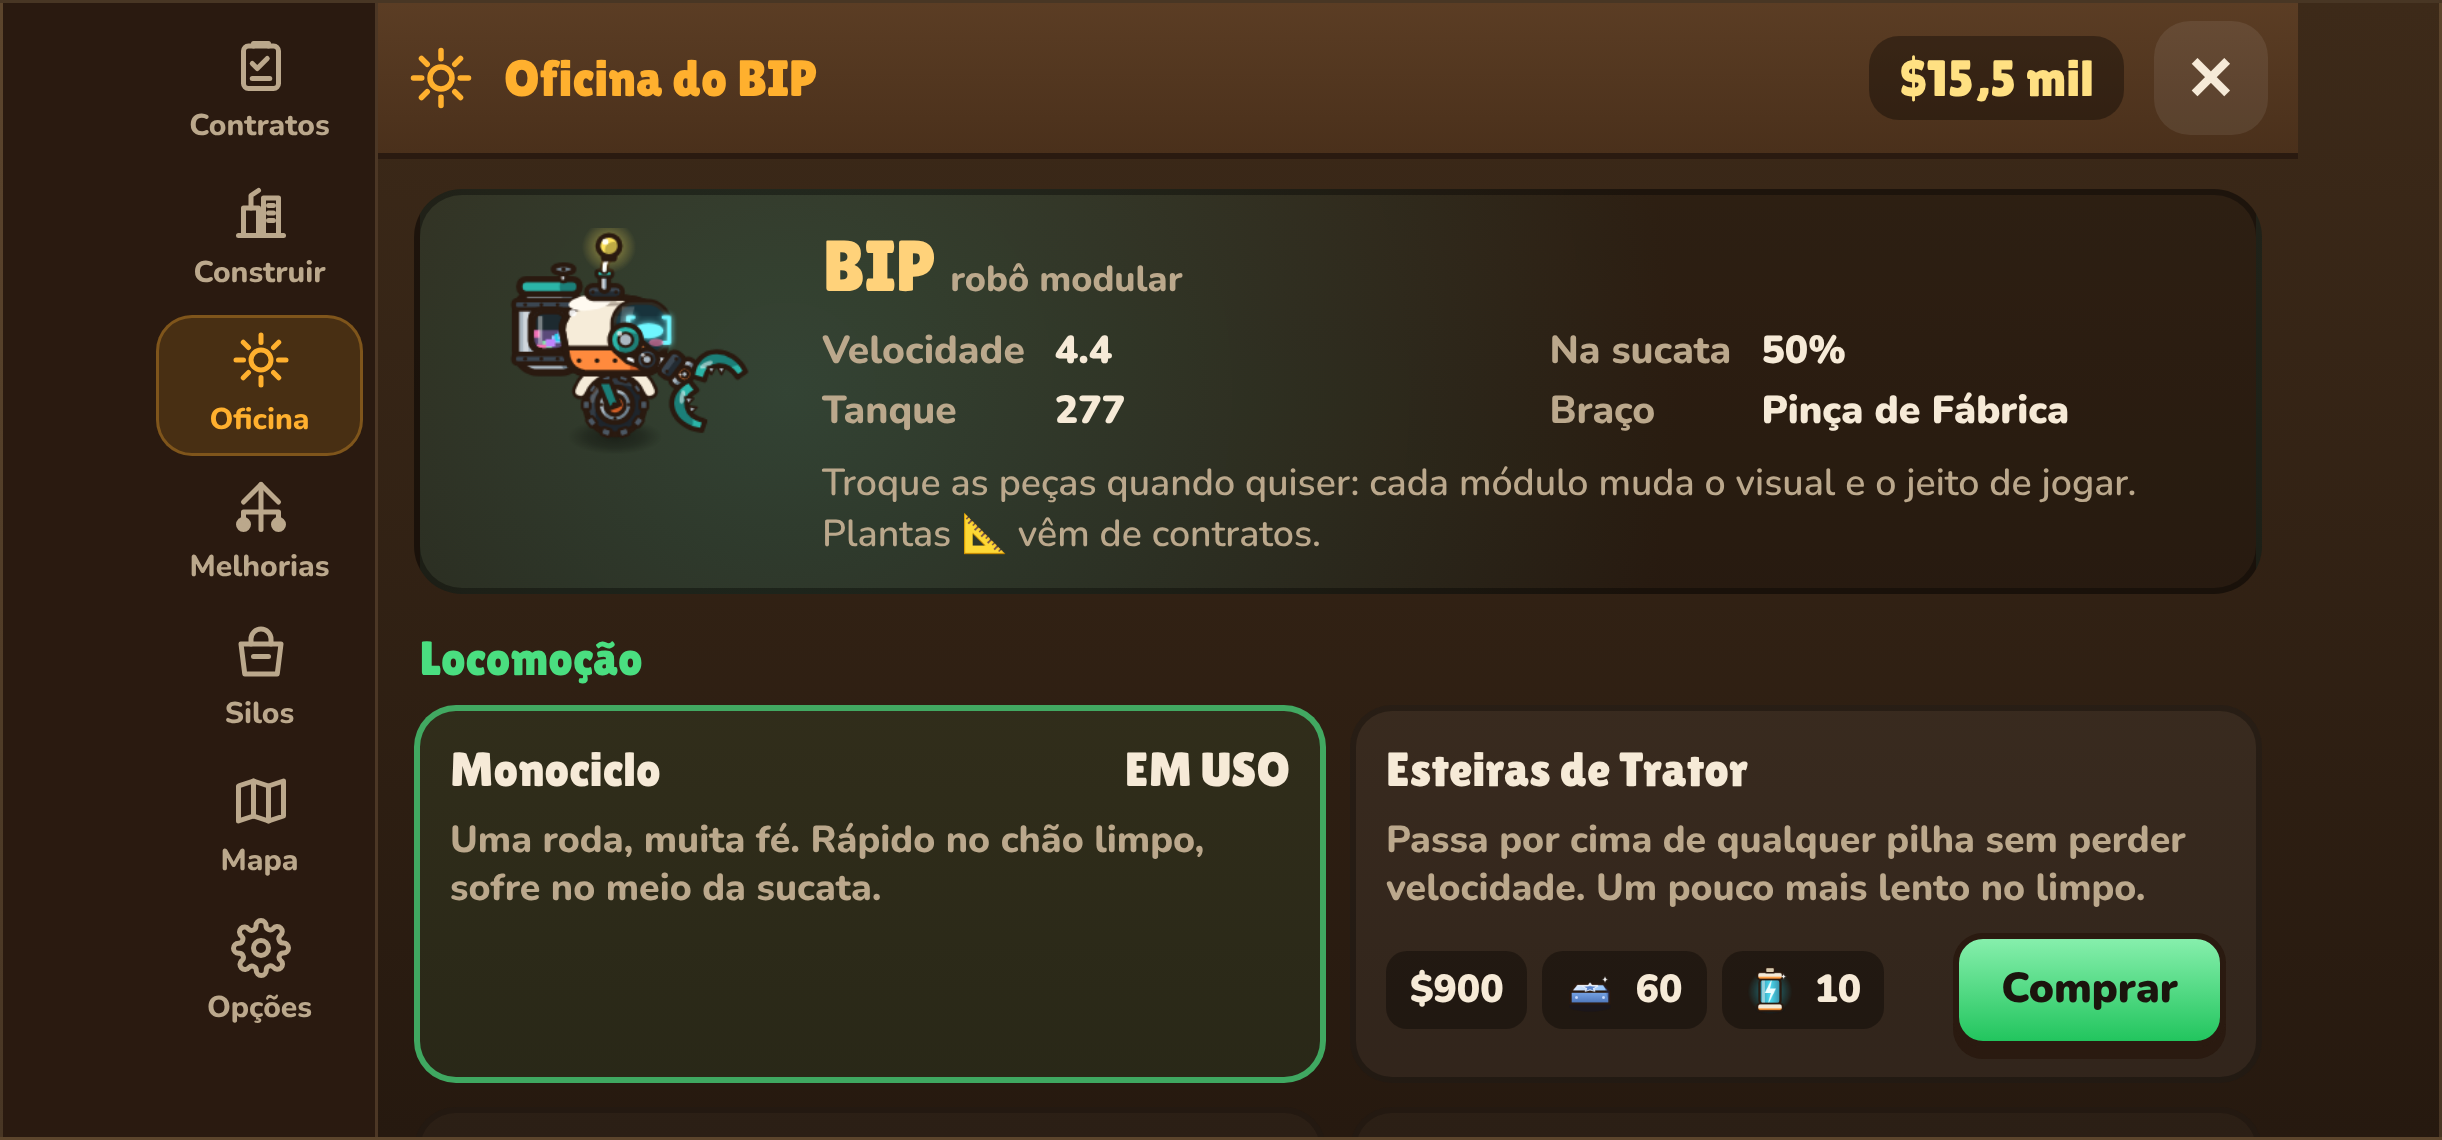
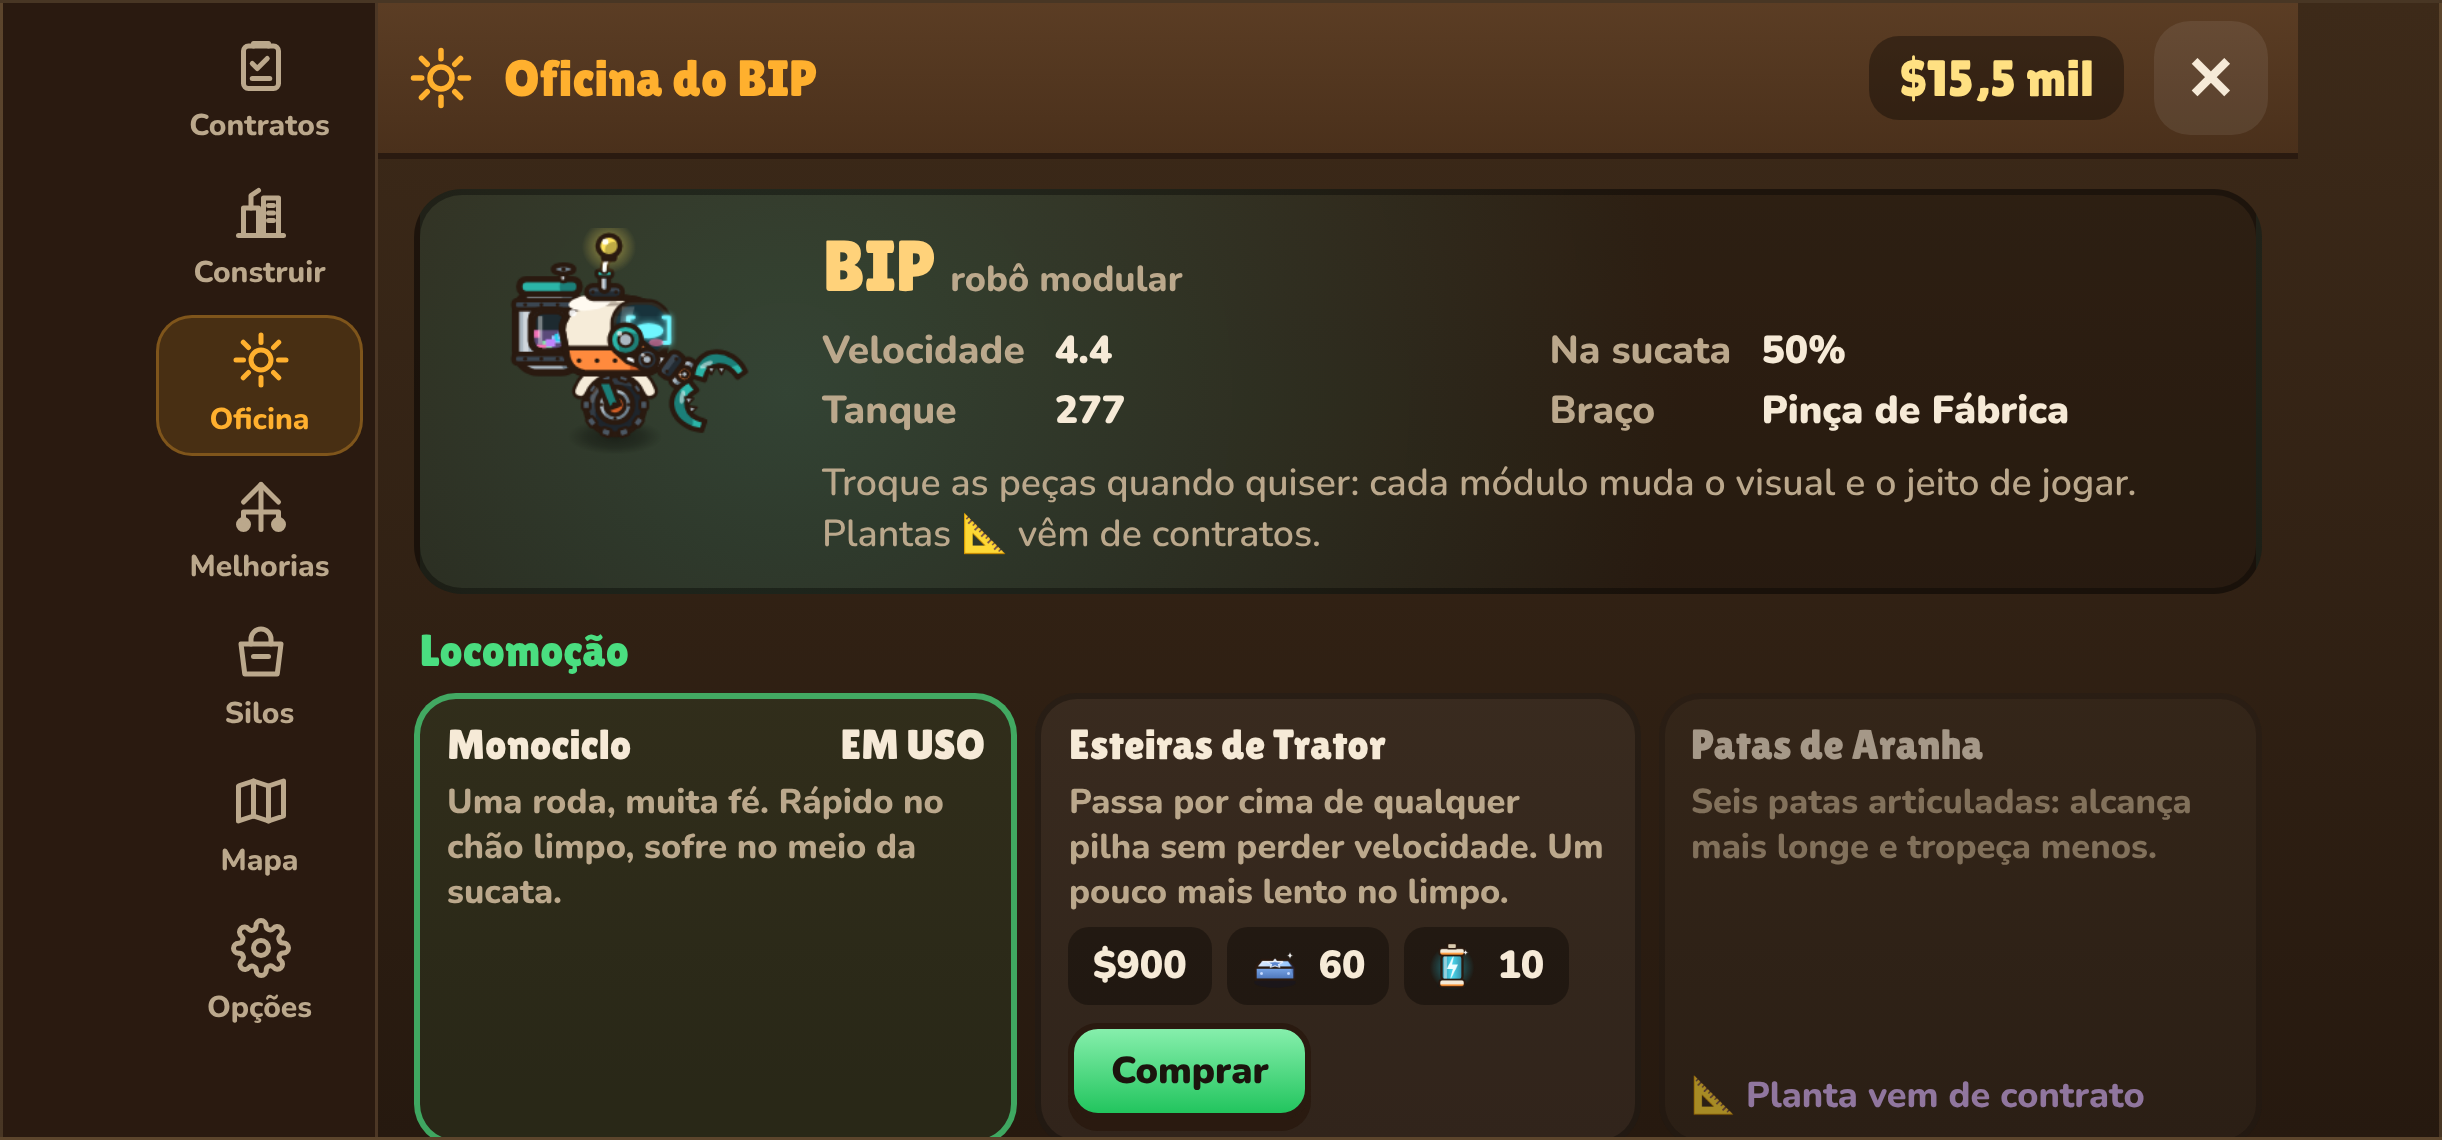
Compact contract/build/workshop layouts; clearer separator explanation
Claude-Session: https://claude.ai/code/session_01PMnmC37q3FqD58hjrdZnuM

diff --git a/src/ui/style.css b/src/ui/style.css
@@ -803,3 +803,54 @@ img.mi.big { width: 26px; height: 26px; margin: 0; }
   .modal-main { padding-right: var(--safe-r); }
   .modal-b { padding: 10px 12px; }
 }
+
+/* ---------- compact lists (contracts, build, workshop) ---------- */
+.chead { padding: 6px 10px; }
+.chead .lv { font-size: 16px; }
+.chead .stars { font-size: 11px; letter-spacing: 1px; }
+.chead .clock { font-size: 15px; }
+h3.mrole { margin: 10px 2px 6px !important; font-size: 15px !important; }
+h3.mrole small { font-size: 11px !important; }
+.cgrid { grid-template-columns: repeat(auto-fill, minmax(250px, 1fr)) !important; gap: 8px !important; }
+.ccard { padding: 7px 9px !important; gap: 5px !important; border-radius: 12px !important; }
+.ccard .ch b { font-size: 13.5px !important; white-space: nowrap; overflow: hidden; text-overflow: ellipsis; min-width: 0; }
+.ccard .ch { align-items: center; }
+.ccard .tl { font-size: 12px !important; }
+.ccard .tl small { display: none; }
+.rqs { display: flex; flex-wrap: wrap; gap: 4px; }
+.rqs .rq { display: grid !important; grid-template-columns: 16px auto; align-items: center; gap: 1px 4px !important; padding: 3px 6px; border-radius: 8px; background: rgba(0,0,0,.28); font-size: 11.5px !important; min-width: 84px; flex: 1; }
+.rqs .rq.ok { box-shadow: inset 0 0 0 1.5px #4ade80; }
+.rqs .rq .q { color: var(--muted); white-space: nowrap; }
+.rqs .rq .rb { grid-column: 1 / -1; height: 4px !important; }
+.ccard .cf { margin-top: 0 !important; }
+.ccard .rw { font-size: 12px !important; }
+.ccard .btn { min-height: 34px !important; padding: 5px 12px !important; font-size: 13px !important; }
+.cempty { padding: 8px 10px !important; font-size: 12px !important; }
+/* build: small tiles, details on tap */
+.mgrid { grid-template-columns: repeat(auto-fill, minmax(220px, 1fr)) !important; gap: 8px !important; }
+.mcard { display: grid !important; grid-template-columns: 60px 1fr !important; column-gap: 8px !important; row-gap: 3px !important; padding: 6px !important; border-radius: 12px !important; }
+.mcard > * { grid-column: 2; }
+.mcard .art { grid-column: 1 !important; grid-row: 1 / span 4 !important; height: 60px !important; min-height: 0 !important; align-self: start; }
+.mcard .art img { width: 54px !important; height: 54px !important; }
+.mcard .tag, .mcard .cnt { font-size: 9.5px !important; padding: 1px 4px !important; top: 2px !important; }
+.mcard .cnt { left: 2px !important; } .mcard .tag { right: 2px !important; }
+.mcard .lk { font-size: 20px !important; }
+.mcard .nm { font-size: 14.5px !important; }
+.mcard:not(.open) .fn { -webkit-line-clamp: 1 !important; font-size: 11.5px !important; }
+.mcard:not(.open) .st { display: none; }
+.mcard .buy { flex-direction: row !important; align-items: center; gap: 4px; }
+.mcard .buy .cst { flex: 1; min-width: 0; }
+.mcard .buy .cst .cost { font-size: 11px; padding: 1px 5px; }
+.mcard .buy .btn { width: auto !important; min-height: 32px !important; padding: 4px 10px !important; font-size: 12.5px !important; flex: none; }
+.mcard .lockline { font-size: 11px !important; padding: 4px 6px !important; }
+.mcard.open { grid-column: 1 / -1; }
+.bhead .flow { display: none; }
+/* workshop */
+.wgrid { grid-template-columns: repeat(auto-fill, minmax(200px, 1fr)) !important; gap: 6px !important; }
+.wcard { padding: 7px 9px !important; gap: 4px !important; }
+.wcard .wn { font-size: 14px !important; }
+.wcard .wd { font-size: 11.5px !important; }
+.wcard .btn { min-height: 32px !important; padding: 4px 12px !important; font-size: 12.5px !important; }
+.chead .rep { flex-direction: row !important; flex-wrap: wrap; align-items: baseline; gap: 2px 10px !important; }
+.chead .rep small { display: inline !important; }
+.mcard .tag.hv { font-size: 11px !important; }

diff --git a/src/ui/UI.ts b/src/ui/UI.ts
@@ -587,7 +587,7 @@ export class UI {
         if (def.radius > 0 && def.role === 'coleta') stats.push(`◎ ${def.radius} m`);
         if (def.process > 0) stats.push(`⚙ +${def.process}/s`);
         if (def.yard > 0) stats.push(`▦ +${def.yard}`);
-        const tag = def.role === 'coleta' ? (def.heavy ? '<span class="tag hv">🏋 pesado</span>' : '<span class="tag">leve</span>') : '';
+        const tag = def.role === 'coleta' && def.heavy ? '<span class="tag hv" title="ergue sucata pesada">🏋</span>' : '';
         const lockTxt = def.unlock ? UPGRADE_MAP[def.unlock].name : '';
         html += `<div class="mcard ${role} ${unl ? (miss ? 'short' : 'ready') : 'locked'} ${open ? 'open' : ''}" data-card="${t}">
           <div class="art"><img src="${this.machineThumb(t)}" alt=""/>${owned ? `<span class="cnt">×${owned}</span>` : ''}${tag}${unl ? '' : '<span class="lk">🔒</span>'}</div>
@@ -687,18 +687,20 @@ export class UI {
     setTimeout(() => b.remove(), 3600);
   }
 
+  /** Compact requirement chips: icon, have/need and a thin progress bar each. */
   private reqRows(req: number[], delivered: number[] | null) {
     const g = this.game;
-    let html = '';
+    let html = '<div class="rqs">';
     for (let k = 0; k < MAT_COUNT; k++) {
       if (req[k] <= 0) continue;
       const m = MATERIALS[k];
       const done = delivered ? delivered[k] : 0;
       const silo = Math.min(req[k] - done, Math.floor(g.storage[k]));
+      const have = done + Math.max(0, silo);
       const pd = (100 * done) / req[k], ps = (100 * Math.max(0, silo)) / req[k];
-      html += `<div class="rq"><img class="mi big" src="${matIconURL(k)}" alt=""/><span class="n">${m.name}</span><span class="q"><b>${fmtInt(done + Math.max(0, silo))}</b>/${fmtInt(req[k])}</span><div class="rb"><i class="d" style="width:${pd}%"></i><i class="s" style="width:${ps}%;left:${pd}%;background:${m.color}"></i></div></div>`;
+      html += `<div class="rq ${have >= req[k] ? 'ok' : ''}" title="${m.name}"><img class="mi" src="${matIconURL(k)}" alt=""/><span class="q"><b>${fmtShort(have)}</b>/${fmtShort(req[k])}</span><div class="rb"><i class="d" style="width:${pd}%"></i><i class="s" style="width:${ps}%;left:${pd}%;background:${m.color}"></i></div></div>`;
     }
-    return html;
+    return html + '</div>';
   }
 
   private renderContracts(body: HTMLElement) {

diff --git a/src/data/machines.ts b/src/data/machines.ts
@@ -55,8 +55,8 @@ export const MACHINES: Record<MachineType, MachineDef> = {
   separator: {
     ...D, type: 'separator', name: 'Separador de Materiais', short: 'Separador', role: 'processamento', size: 1, money: 1800, mats: [0, 60, 0, 0, 30, 0], costGrowth: 1.25,
     rate: 0, radius: 0, buffer: 0, unlock: 'r_sep', solid: false, buildable: true,
-    func: 'Separa o que passa na esteira: chega pronto aos silos, não ocupa o pátio e vale mais.',
-    desc: 'Instale no meio de uma esteira que vai até o posto. Essencial para linhas grandes e contratos apertados.',
+    func: 'Peça de esteira: tudo que passa por ele chega aos silos já separado, pula a fila do pátio e vale +35%.',
+    desc: 'Coloque no lugar de uma esteira, no meio da linha e apontando para o posto. Sem ele, o que as esteiras trazem entra no pátio e espera ser processado. Com ele, vai direto para os silos.',
   },
   crusher: {
     ...D, type: 'crusher', name: 'Prensa Compactadora', short: 'Prensa', role: 'processamento', size: 2, money: 4000, mats: [0, 180, 0, 0, 30, 0], costGrowth: 1.3,

diff --git a/src/game/Game.ts b/src/game/Game.ts
@@ -534,6 +534,7 @@ export class Game {
     this.fx.burst((tx + s / 2) * TILE, (ty + s / 2) * TILE, 'build', type === 'conveyor' ? 4 : 18);
     this.fx.sound('build', (tx + s / 2) * TILE, (ty + s / 2) * TILE);
     if (this.stats.built === 1) this.notify('Sua primeira máquina! Ela trabalha mesmo quando você não está olhando. Diferente de certos funcionários.');
+    if (type === 'separator' && this.machines.count('separator') === 1) this.notify('Separador instalado! Os pacotes que passam por ele ganham uma faixa colorida: entram direto nos silos (sem esperar no pátio) e valem +35%. Ele precisa estar no caminho da esteira até o posto.');
     if (type === 'conveyor' && this.machines.count('conveyor') === 1) this.notify('Esteiras levam materiais das máquinas até o posto. A seta mostra a direção. Tecla R gira.');
     return null;
   }
